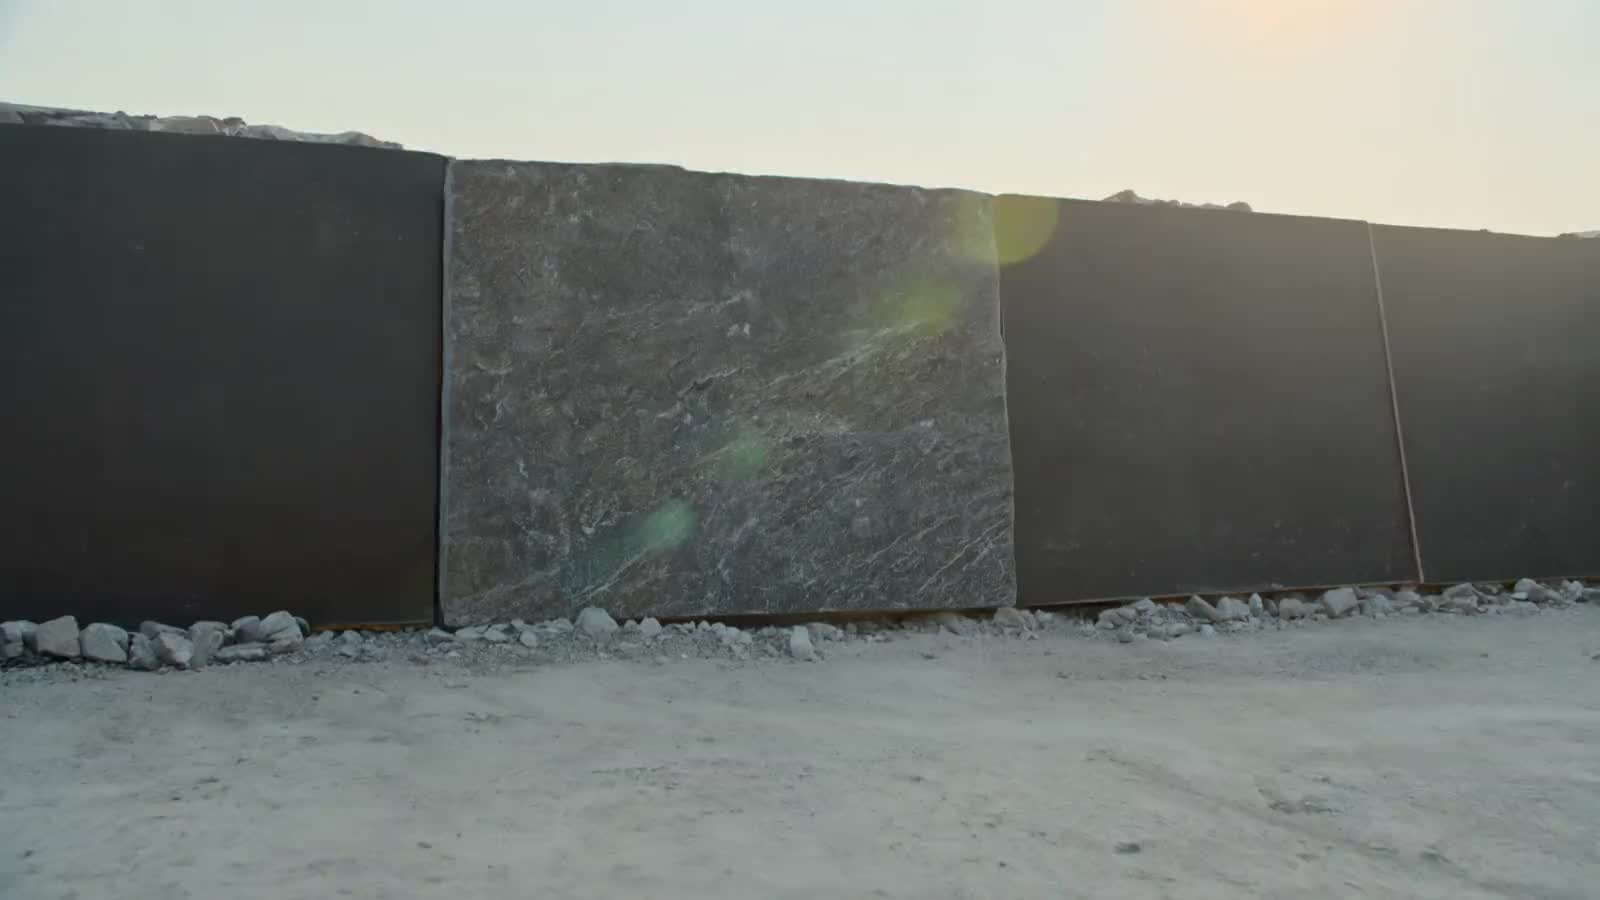
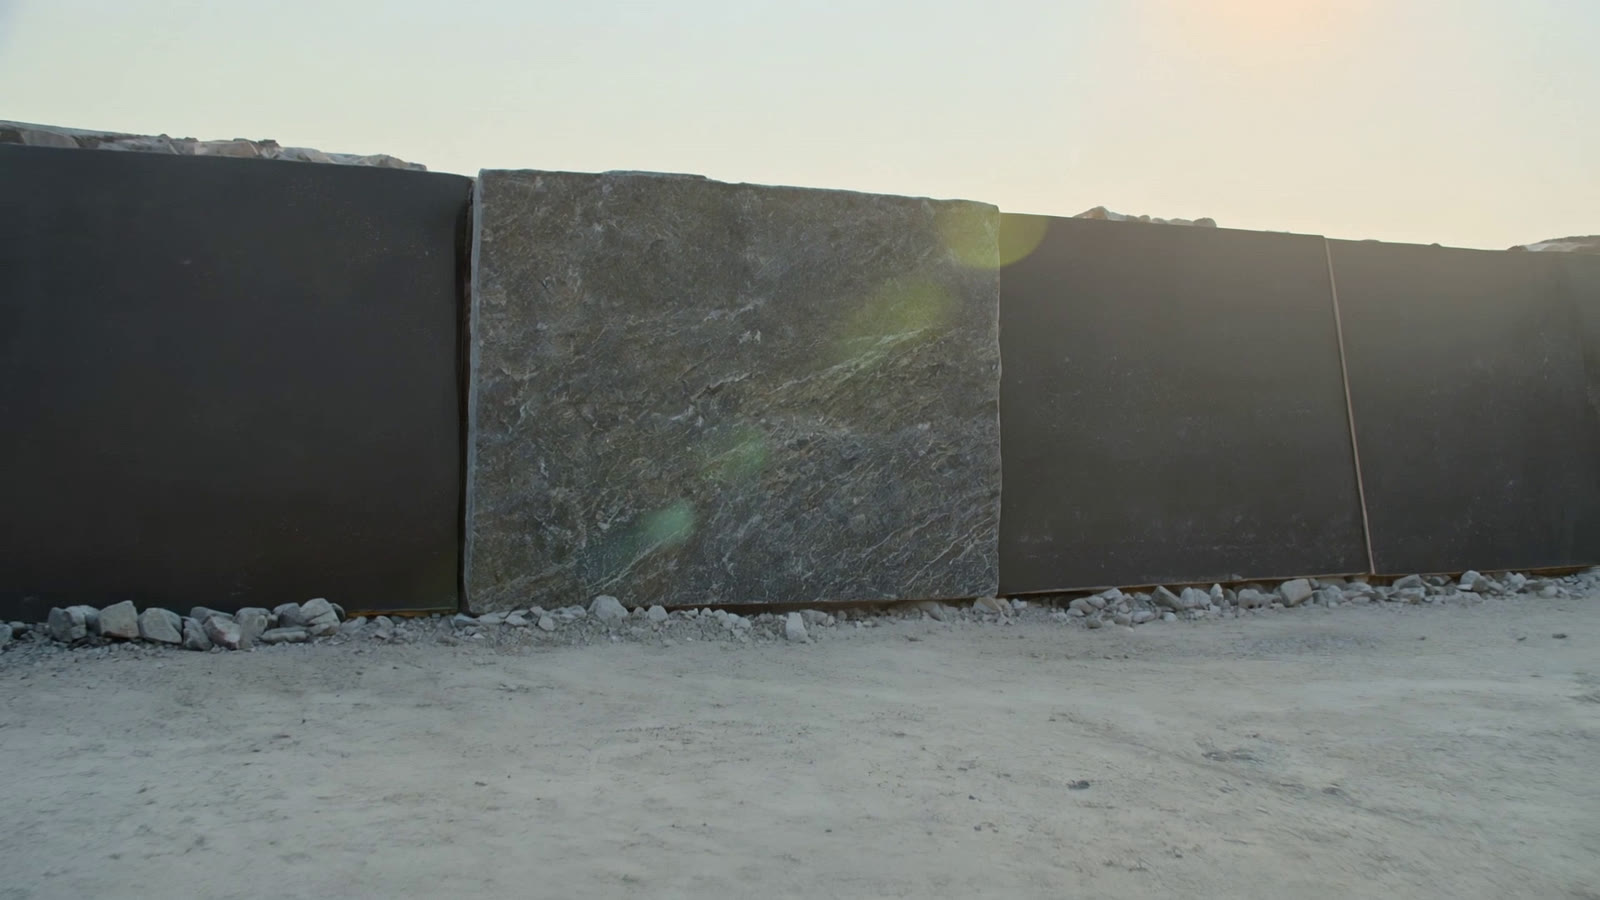
feat(home): фон замість відео на телефоні, нова секція «Що саме ми робимо»
Відео в hero на мобільному коштувало трафіку більше, ніж давало — замінено
художньо кадрованим <picture>: на телефоні окремий кадр, зміщений лівіше,
щоб пам'ятник не ховався за текстом. Постер перерізано з оригіналу, а не з
пережатої копії, тому він помітно чистіший.

Секція категорій після зняття лінійки «Дім і сад» лишилася з однією карткою
в сітці на дві — виглядало як недовантажена сторінка. Тепер це горизонтальний
блок на всю ширину: одна пропозиція читається як навмисна.

diff --git a/components/categories-section.tsx b/components/categories-section.tsx
@@ -12,12 +12,16 @@ import {
 } from "@/lib/store/homepage"
 
 /**
- * "Що саме ми робимо" — two-card hero section on the homepage.
+ * "Що саме ми робимо" — повноширинний блок на головній.
  *
- * Content is admin-editable via /admin/homepage. Until admin saves
- * anything, falls back to the seeded DEFAULT_HOMEPAGE_CATEGORIES copy
- * (which matches what was hardcoded here previously, so the visual is
- * identical out of the box).
+ * Раніше тут була сітка з двох карток. Після зняття лінійки «Дім і сад»
+ * лишилась одна, і вона висіла обрізаною по ліву половину сітки — виглядало
+ * як недовантажена сторінка. Тому не картка в сітці, а горизонтальний блок:
+ * фото ліворуч, зміст праворуч. Одна пропозиція так читається як навмисна,
+ * а не як залишок від двох.
+ *
+ * Дані ті самі й далі редагуються в /admin/homepage — змінилась лише
+ * розкладка.
  */
 export function CategoriesSection() {
   const { locale } = useTranslation()
@@ -31,74 +35,80 @@ export function CategoriesSection() {
         </h2>
       </div>
 
-      {/* One card since the "Дім і сад" line was discontinued. Capped width so
-          a single card does not stretch across the full grid — the section is
-          due a redesign once the new layout lands. */}
-      <div className="grid grid-cols-1 gap-6 lg:gap-8">
-        <div className="lg:max-w-[calc(50%-1rem)]">
-          <CategoryCard card={content.memorial} locale={locale} priority />
-        </div>
-      </div>
+      <FeatureBlock card={content.memorial} locale={locale} />
     </section>
   )
 }
 
-function CategoryCard({
+function FeatureBlock({
   card,
   locale,
-  priority = false,
 }: {
   card: HomepageCategoryCard
   locale: keyof HomepageCategoryCard["title"]
-  priority?: boolean
 }) {
   const items = card.items[locale] || []
+
   return (
-    <motion.div
+    <motion.article
       initial={{ opacity: 0, y: 12 }}
       whileInView={{ opacity: 1, y: 0 }}
       viewport={{ once: true, amount: 0.1 }}
       transition={{ duration: 0.35, ease: [0.22, 1, 0.36, 1] }}
-      className="group relative overflow-hidden rounded-3xl bg-card ring-1 ring-black/[0.04] shadow-soft transition-[box-shadow,transform] duration-300 hover:shadow-hover hover:-translate-y-0.5"
+      className="group overflow-hidden rounded-3xl bg-card ring-1 ring-black/[0.04] shadow-soft transition-[box-shadow,transform] duration-300 hover:shadow-hover hover:-translate-y-0.5"
     >
-      <Link href={card.href} prefetch className="block">
-        <div className="relative aspect-[16/10] overflow-hidden bg-foreground/5">
+      <Link
+        href={card.href}
+        prefetch
+        className="grid grid-cols-1 lg:grid-cols-[1.05fr_1fr] lg:items-stretch"
+      >
+        {/* Фото тягнеться на всю висоту блоку, тому aspect задано лише на
+            мобільному — на десктопі висоту диктує колонка з текстом. */}
+        <div className="relative aspect-[16/10] overflow-hidden bg-foreground/5 lg:aspect-auto lg:min-h-[26rem]">
           {card.image && (
             <Image
               src={card.image}
               alt={card.title[locale] || ""}
               fill
-              sizes="(max-width: 1024px) 100vw, 50vw"
-              priority={priority}
+              sizes="(max-width: 1024px) 100vw, 55vw"
+              priority
               className="object-cover transition-transform duration-[700ms] ease-[cubic-bezier(0.32,0.72,0,1)] group-hover:scale-[1.04]"
               unoptimized={shouldBypassOptimizer(card.image)}
             />
           )}
-          <div className="absolute inset-0 bg-gradient-to-t from-black/45 via-transparent to-transparent" />
-          <h3 className="absolute bottom-6 left-6 text-3xl font-semibold tracking-tight-custom text-white drop-shadow-[0_2px_12px_rgba(0,0,0,0.5)] md:text-4xl">
+          {/* Градієнт лише під мобільний заголовок — на десктопі назва
+              переїжджає в текстову колонку, і затемнювати фото немає навіщо. */}
+          <div className="absolute inset-0 bg-gradient-to-t from-black/45 via-transparent to-transparent lg:hidden" />
+          <h3 className="absolute bottom-6 left-6 text-3xl font-semibold tracking-tight-custom text-white drop-shadow-[0_2px_12px_rgba(0,0,0,0.5)] lg:hidden">
             {card.title[locale]}
           </h3>
         </div>
-        <div className="p-6 md:p-8">
-          <p className="text-[15px] leading-relaxed text-muted-foreground md:text-base">
+
+        <div className="flex flex-col justify-center p-6 md:p-8 lg:p-10">
+          <h3 className="hidden text-3xl font-semibold tracking-tight-custom text-balance lg:block xl:text-4xl">
+            {card.title[locale]}
+          </h3>
+          <p className="text-[15px] leading-relaxed text-muted-foreground md:text-base lg:mt-4">
             {card.description[locale]}
           </p>
+
           {items.length > 0 && (
-            <ul className="mt-5 grid grid-cols-2 gap-x-4 gap-y-2 text-[14px] text-foreground/85">
+            <ul className="mt-6 grid grid-cols-1 gap-x-6 gap-y-2.5 text-[15px] text-foreground/85 sm:grid-cols-2">
               {items.map((i) => (
-                <li key={i} className="flex items-center gap-2">
-                  <span className="inline-block h-1 w-1 rounded-full bg-foreground/40" />
+                <li key={i} className="flex items-start gap-2.5">
+                  <span className="mt-[0.55rem] inline-block h-1 w-1 shrink-0 rounded-full bg-foreground/40" />
                   {i}
                 </li>
               ))}
             </ul>
           )}
-          <span className="mt-6 inline-flex items-center gap-2 text-sm font-medium text-foreground">
+
+          <span className="mt-8 inline-flex w-fit items-center gap-2 rounded-full bg-foreground px-5 py-2.5 text-sm font-medium text-background transition-transform group-hover:-translate-y-[1px]">
             {card.cta[locale]}
             <ArrowRight className="h-4 w-4 transition-transform group-hover:translate-x-0.5" strokeWidth={2} />
           </span>
         </div>
       </Link>
-    </motion.div>
+    </motion.article>
   )
 }

diff --git a/components/hero.tsx b/components/hero.tsx
@@ -3,7 +3,6 @@
 import Link from "next/link"
 import { motion, useScroll, useTransform } from "framer-motion"
 import { ChevronDown, ArrowRight } from "lucide-react"
-import Image from "next/image"
 import { useEffect, useRef, useState } from "react"
 import { useTranslation } from "@/lib/i18n/context"
 
@@ -77,20 +76,38 @@ export function Hero() {
           the poster is now a real first frame instead of an SVG placeholder, so
           something representative paints immediately.
         */}
-        {/* Poster as a real <Image>: it is the LCP element on mobile, so it
-            needs priority (which emits fetchpriority="high" — PSI flagged its
-            absence). On desktop the video paints over it once mounted. */}
-        <Image
-          src="/hero/hero-poster.jpg"
-          alt=""
-          fill
-          priority
-          // PSI's LCP audit asks for fetchpriority=high explicitly; `priority`
-          // alone emits the preload link but not this attribute in this version.
-          fetchPriority="high"
-          sizes="100vw"
-          className="object-cover"
-        />
+        {/*
+          <picture>, а не next/image — навмисно. Тут потрібна арт-дирекція:
+          на телефоні hero це h-screen, і широкий кадр 16:9 обрізався
+          object-cover до вузької смуги по центру — видно лишалось ~26 %
+          ширини, композицію вирішував випадок. Тепер під мобільний іде
+          окремий вертикальний кадр, скомпонований під цей формат.
+
+          Два <Image> з display:none тут не годяться: браузер тягне обидва
+          файли незалежно від того, який видно, а це LCP-елемент.
+
+          Обидва кадри перезняті з оригіналу 1920×1080 / 20,7 Мбіт/с — той,
+          що лежав раніше, був вирізаний із стисненої до CRF 28 копії й
+          помітно замилював фактуру каменю.
+        */}
+        <picture>
+          <source
+            media="(min-width: 768px)"
+            srcSet="/hero/hero-poster.webp"
+            type="image/webp"
+          />
+          <source media="(min-width: 768px)" srcSet="/hero/hero-poster.jpg" />
+          <source srcSet="/hero/hero-poster-mobile.webp" type="image/webp" />
+          <img
+            src="/hero/hero-poster-mobile.jpg"
+            alt=""
+            // LCP-елемент на мобільному: без цього PSI лається на відсутній
+            // пріоритет, а lazy тут узагалі неприпустимий.
+            fetchPriority="high"
+            decoding="async"
+            className="absolute inset-0 h-full w-full object-cover"
+          />
+        </picture>
         {showVideo && (
           <video
             ref={videoRef}
